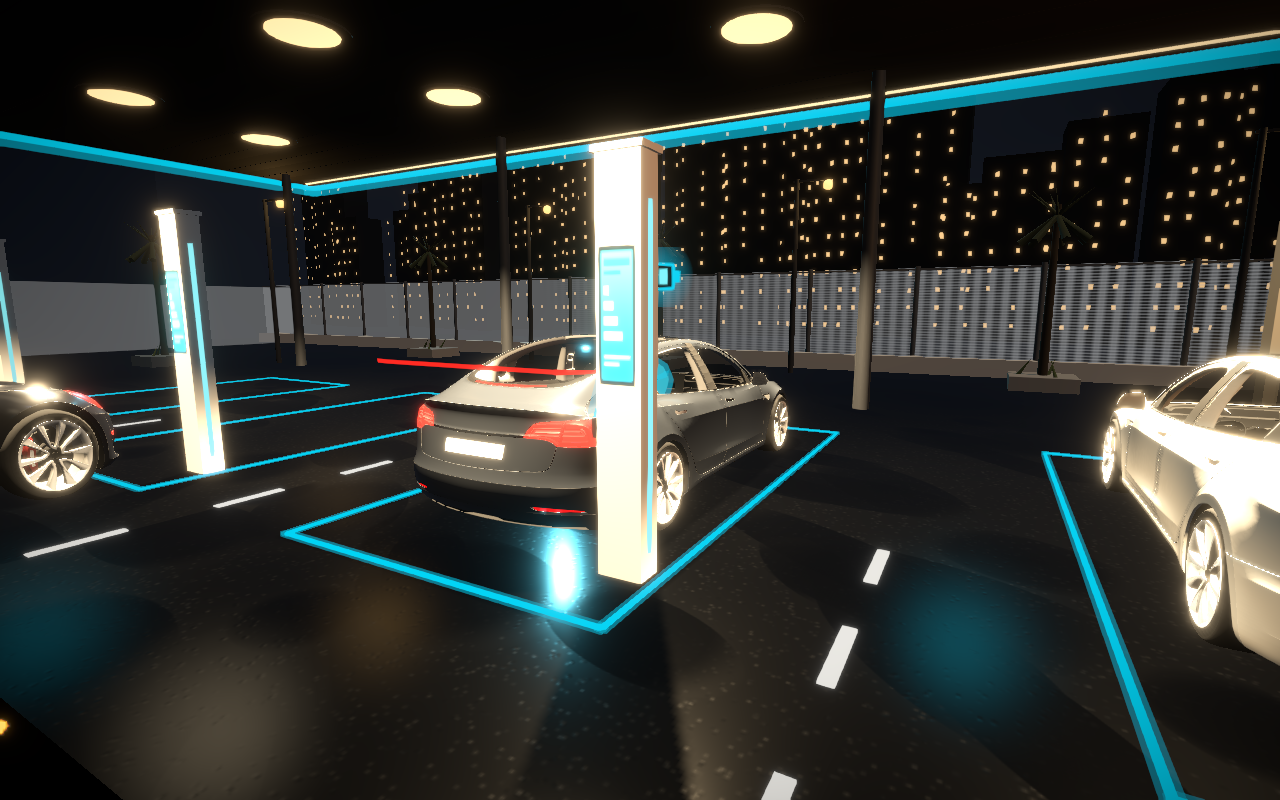
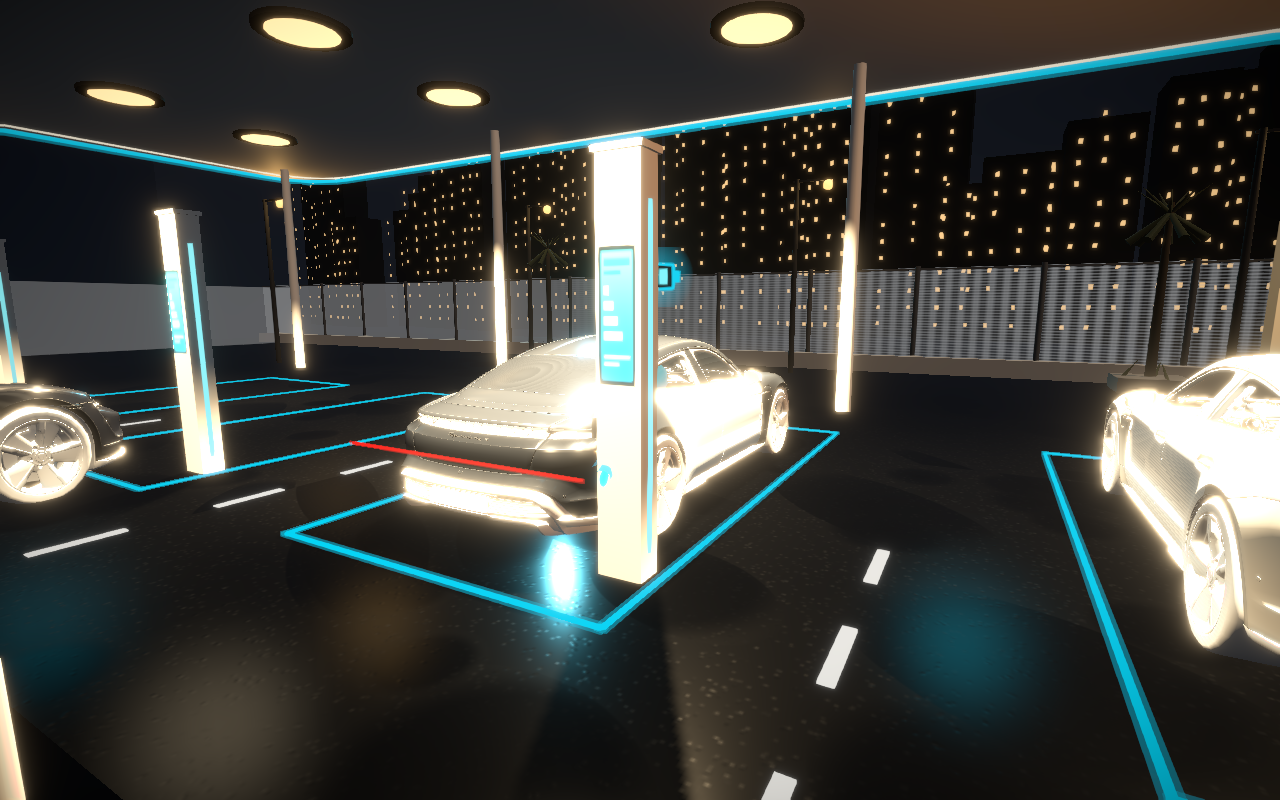
feat: Taycan stills and cooler paint so cream cars do not bloom out
1280x800 startNight / rear-34 with porsche-taycan-2020.glb. Drop paint env and bloom a hair so Hale/Ng stay readable.

diff --git a/src/world/cars.ts b/src/world/cars.ts
@@ -35,11 +35,11 @@ function paintMaterial(color: THREE.Color): THREE.MeshPhysicalMaterial {
   return new THREE.MeshPhysicalMaterial({
     name: "Paint",
     color,
-    metalness: 0.28,
-    roughness: 0.12,
+    metalness: 0.24,
+    roughness: 0.14,
     clearcoat: 1,
-    clearcoatRoughness: 0.035,
-    envMapIntensity: 2.65,
+    clearcoatRoughness: 0.04,
+    envMapIntensity: 2.15,
   });
 }
 

diff --git a/src/render/pipeline.ts b/src/render/pipeline.ts
@@ -79,8 +79,8 @@ export function createPipeline(
   });
   composer.addPass(new RenderPass(scene, camera));
   const bloom = new BloomEffect({
-    intensity: 0.22,
-    luminanceThreshold: 0.56,
+    intensity: 0.18,
+    luminanceThreshold: 0.6,
     luminanceSmoothing: 0.18,
     mipmapBlur: true,
     radius: 0.46,
